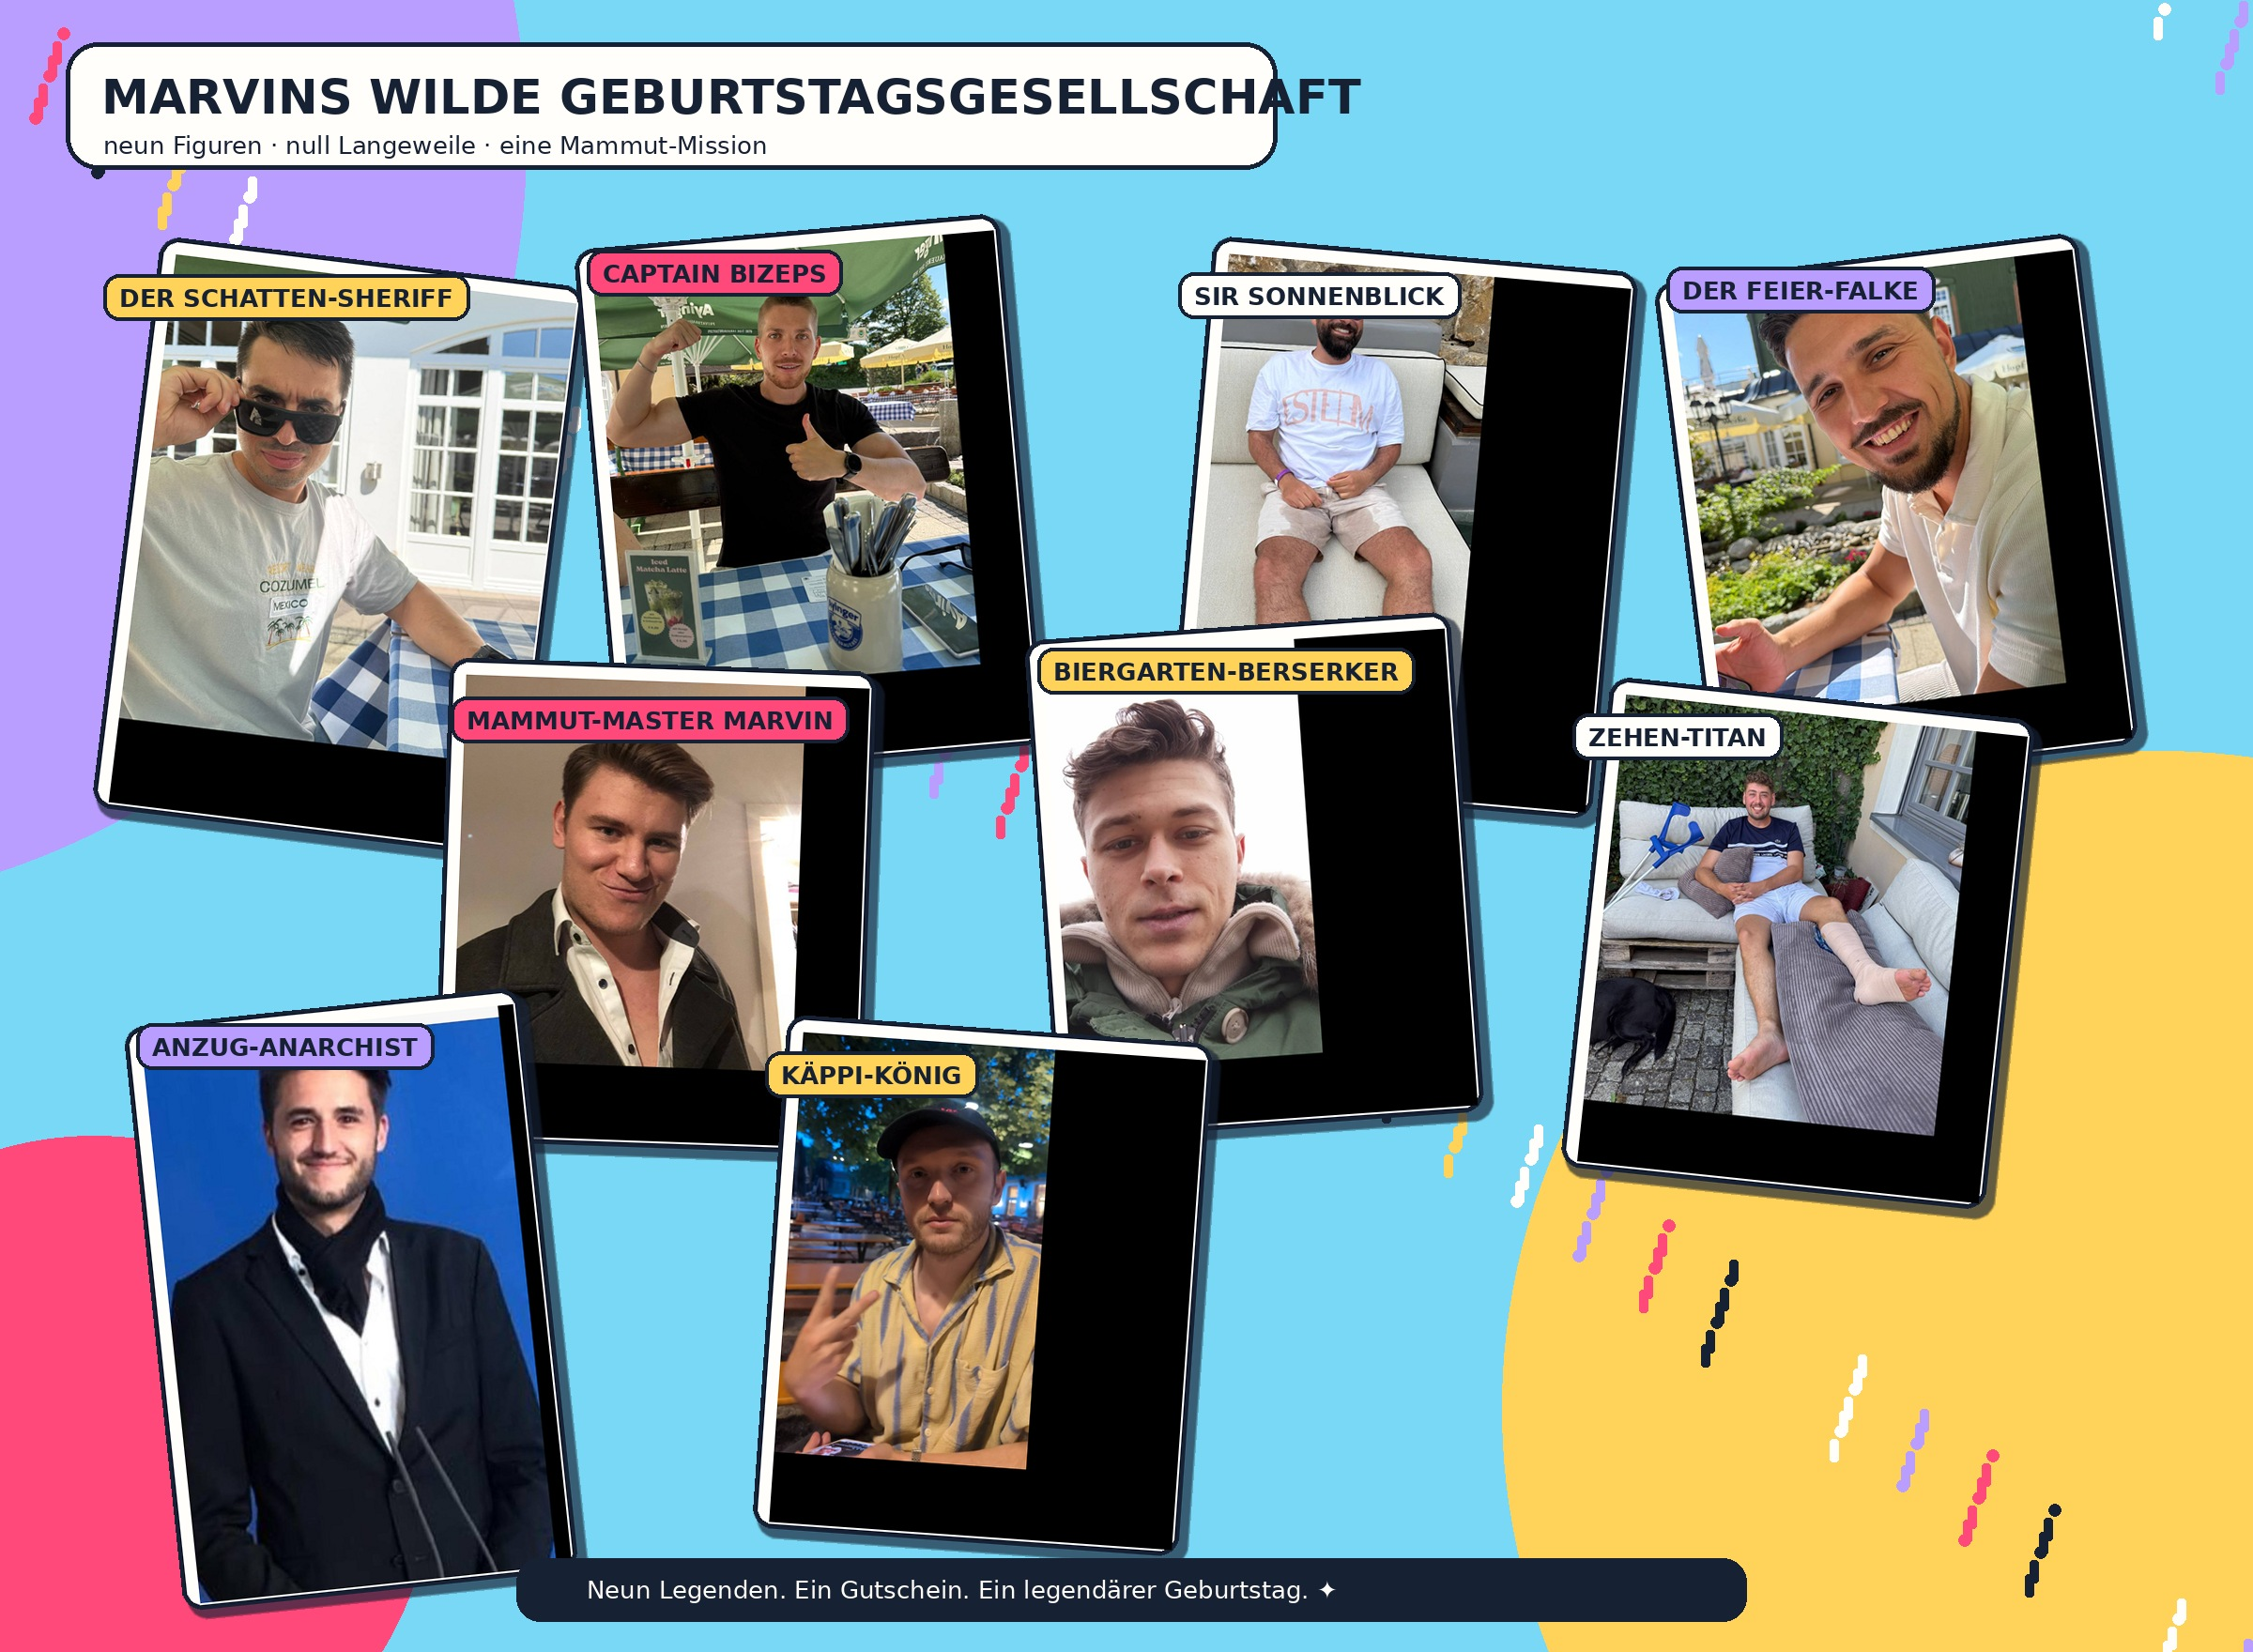
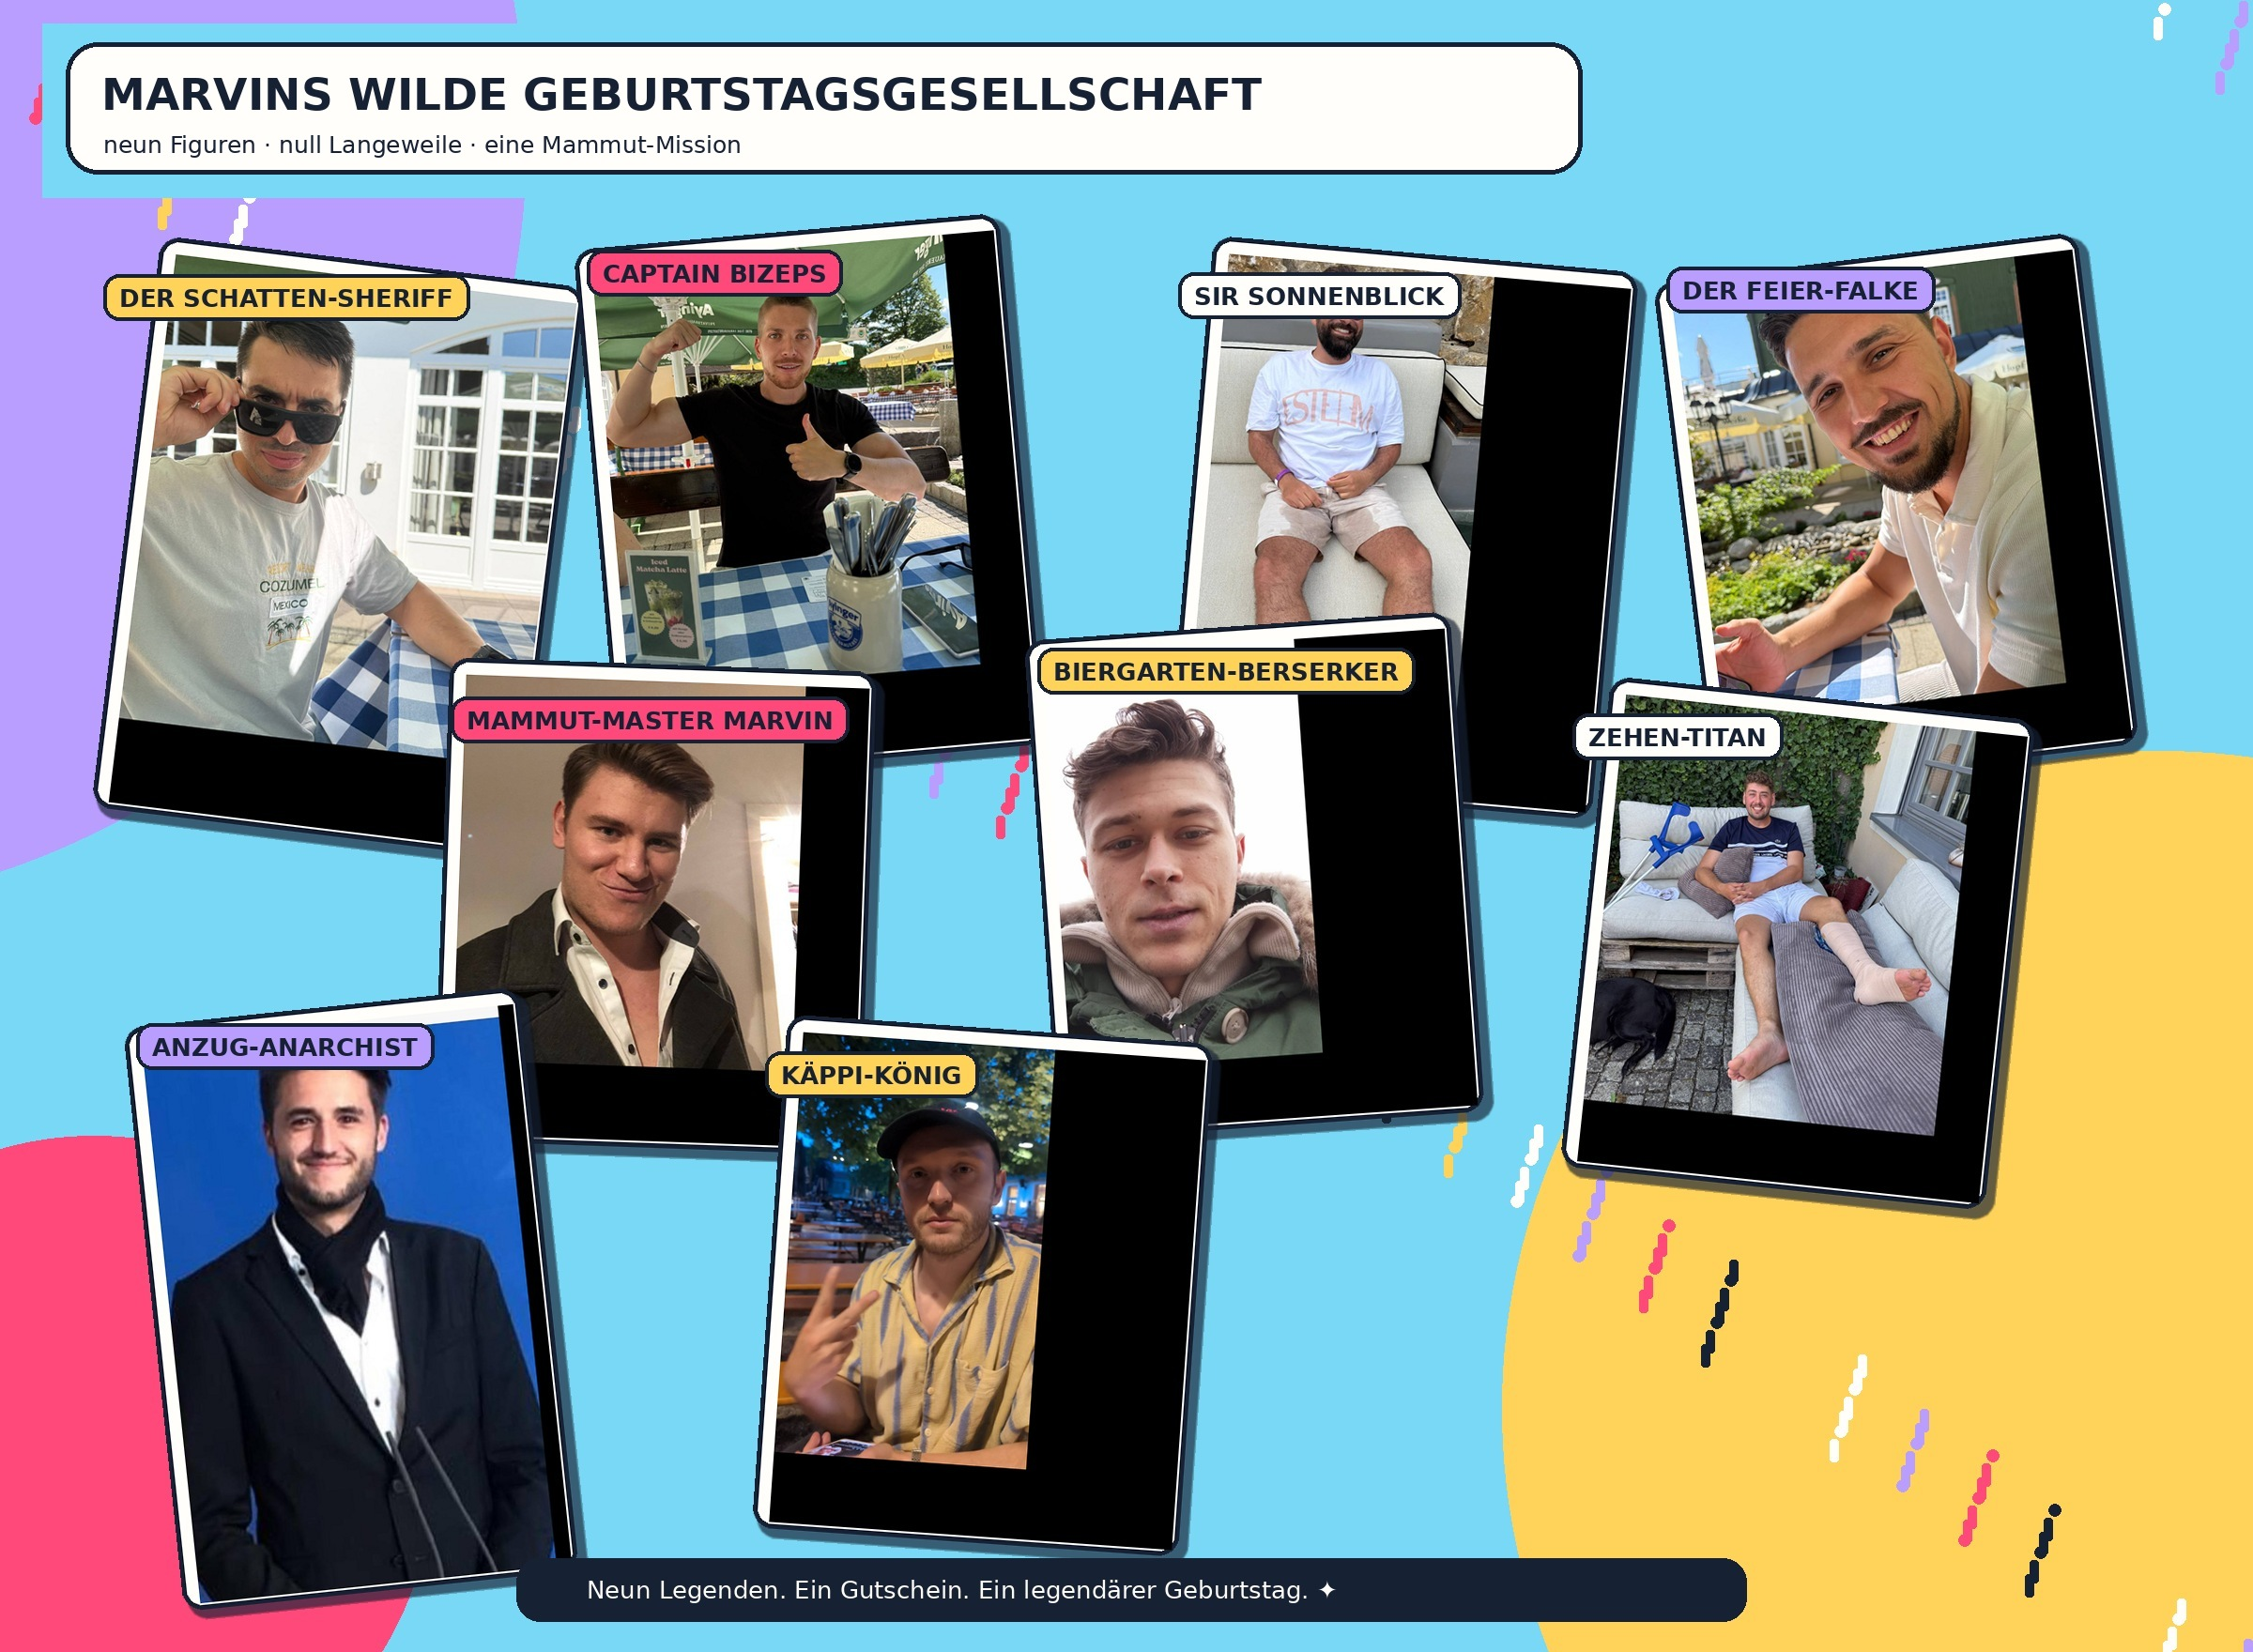
Fix collage heading and restore mammoth badge

Changed region(s): [[0.0, 0.0, 0.7188, 0.125]]

diff --git a/index.html b/index.html
@@ -9,13 +9,13 @@
 #gate{min-height:100svh;display:grid;place-items:center;padding:24px;background:radial-gradient(circle at 15% 20%,#ffe287 0 8%,transparent 28%),radial-gradient(circle at 90% 90%,#f6b6ce 0 10%,transparent 32%),#fff8e9;position:relative;z-index:5}.gate-card{width:min(100%,460px);background:#fffefb;border:2px solid var(--ink);border-radius:28px;padding:clamp(28px,6vw,52px);box-shadow:10px 10px 0 var(--ink);text-align:center;position:relative}.tiny{font:500 11px/1.4 'DM Mono';letter-spacing:.12em;text-transform:uppercase;color:#6a6370}.gate-card h1{font:800 clamp(42px,10vw,68px)/.9 'Playfair Display';margin:16px 0;color:var(--pink);letter-spacing:-.06em}.gate-card p{line-height:1.55;margin:0 0 24px}.credentials{display:grid;gap:12px;text-align:left}.credentials label{font-size:13px;font-weight:700}.credentials input{width:100%;padding:14px 15px;border:2px solid var(--ink);border-radius:12px;background:#fffdf7;outline:none}.credentials input:focus{box-shadow:3px 3px 0 var(--blue)}.unlock{margin-top:22px;width:100%;border:2px solid var(--ink);border-radius:999px;padding:15px;background:var(--yellow);font-weight:800;cursor:pointer;box-shadow:4px 4px 0 var(--ink);transition:.2s}.unlock:hover{transform:translate(2px,2px);box-shadow:2px 2px 0 var(--ink)}.hint{min-height:18px;font-size:12px;color:#c53862;margin:12px 0 0}.lock-note{font-size:10px;color:#777;margin-top:22px}
 #gift{display:none;min-height:100svh;position:relative;z-index:4}.topline{padding:18px clamp(20px,5vw,70px);display:flex;justify-content:space-between;align-items:center;font:500 11px 'DM Mono';letter-spacing:.08em;text-transform:uppercase}.badge{background:var(--ink);color:white;padding:8px 12px;border-radius:99px}.hero{min-height:calc(100svh - 58px);display:grid;place-items:center;padding:30px 20px 70px;position:relative}.hero-inner{width:min(100%,1100px);text-align:center;position:relative}.eyebrow{display:inline-flex;align-items:center;gap:8px;background:var(--paper);border:2px solid var(--ink);border-radius:99px;padding:9px 15px;font:500 11px 'DM Mono';letter-spacing:.1em;text-transform:uppercase;box-shadow:3px 3px 0 var(--ink)}.hero h2{font:800 clamp(62px,15vw,170px)/.76 'Playfair Display';letter-spacing:-.075em;margin:26px 0 18px;color:var(--ink)}.hero h2 em{color:var(--pink);font-weight:700}.sub{font-size:clamp(16px,2vw,23px);max-width:540px;margin:0 auto;line-height:1.5}.balloon{position:absolute;border:2px solid var(--ink);width:94px;height:114px;border-radius:50% 50% 47% 47%;box-shadow:4px 4px 0 var(--ink);animation:float 4.5s ease-in-out infinite}.balloon:after{content:'';position:absolute;bottom:-13px;left:40px;border-left:6px solid transparent;border-right:6px solid transparent;border-top:15px solid var(--ink);filter:drop-shadow(2px 1px 0 currentColor)}.balloon:before{content:'';position:absolute;height:95px;width:1.5px;background:var(--ink);top:112px;left:46px;transform:rotate(8deg);transform-origin:top}.b1{background:var(--yellow);left:4%;top:18%;transform:rotate(-10deg)}.b2{background:var(--blue);right:5%;top:11%;animation-delay:-1s}.b3{background:var(--lilac);left:13%;bottom:-12%;animation-delay:-2.4s}.b4{background:var(--pink);right:14%;bottom:-11%;animation-delay:-.7s}@keyframes float{50%{translate:0 -18px;rotate:3deg}}
 .scroll-cue{margin-top:54px;font:500 11px 'DM Mono';letter-spacing:.1em;text-transform:uppercase;display:inline-flex;gap:10px;align-items:center}.arrow{font-size:22px;animation:bounce 1.5s infinite}@keyframes bounce{50%{translate:0 7px}}
-.section{padding:clamp(70px,12vw,150px) 20px}.voucher-wrap{width:min(100%,880px);margin:auto}.section-head{text-align:center;margin-bottom:42px}.section-head h3{font:800 clamp(38px,7vw,76px)/.95 'Playfair Display';letter-spacing:-.06em;margin:12px 0}.voucher{background:var(--paper);border:2px solid var(--ink);border-radius:26px;box-shadow:12px 12px 0 var(--ink);display:grid;grid-template-columns:1.2fr .8fr;overflow:hidden;position:relative}.voucher-left{padding:clamp(30px,6vw,64px);background:linear-gradient(135deg,#fffefa 0 55%,#f1eaff 55%)}.voucher-right{border-left:2px dashed var(--ink);padding:clamp(30px,5vw,55px);display:flex;flex-direction:column;justify-content:space-between;background:#fff1b9}.amount{font:800 clamp(72px,13vw,145px)/.8 'Playfair Display';letter-spacing:-.08em;color:var(--pink);margin:20px 0}.voucher h4{font-size:clamp(23px,3vw,35px);margin:0 0 10px;letter-spacing:-.04em}.voucher p{line-height:1.55;margin:0}.ticket{font:500 12px 'DM Mono';line-height:1.7}.code-box{margin-top:22px;border:2px dashed var(--ink);border-radius:13px;padding:12px;font:500 18px 'DM Mono';letter-spacing:.13em;background:#fffdf6}.reveal{border:2px solid var(--ink);border-radius:999px;background:var(--pink);color:white;padding:14px 18px;font-weight:800;cursor:pointer;box-shadow:3px 3px 0 var(--ink);margin-top:28px}.reveal:hover{background:#e52f64}.secret{display:none;margin-top:15px;font:500 14px 'DM Mono';background:var(--ink);color:white;border-radius:10px;padding:12px}.guests{background:#78d8f5;padding:clamp(72px,10vw,130px) 20px;position:relative}.guest-together{width:min(100%,1100px);margin:42px auto 0;background:#fffefb;border:2px solid var(--ink);border-radius:24px;overflow:hidden;box-shadow:10px 10px 0 var(--ink)}.guest-together img{display:block;width:100%;height:auto}.guest-together figcaption{padding:16px 22px;text-align:center;font-weight:800}.survival{background:#172134;color:#fff8e9;padding:clamp(70px,11vw,130px) 20px}.survival .tiny{color:#ffd35a}.mission{width:min(100%,1050px);margin:44px auto 0;display:grid;grid-template-columns:1.1fr .9fr;gap:26px;align-items:center}.mission-copy h4{font:800 clamp(39px,6vw,72px)/.92 'Playfair Display';letter-spacing:-.06em;margin:0 0 18px}.mission-copy p{font-size:18px;line-height:1.6;max-width:560px}.mission-art{background:#ffd35a;border:2px solid #fff8e9;border-radius:28px;padding:10px;box-shadow:8px 8px 0 #ff497b;rotate:2deg}.mission-art img{width:100%;display:block}.skills{width:min(100%,1050px);margin:55px auto 0;display:grid;grid-template-columns:repeat(4,1fr);gap:12px}.skill{border:1px solid rgba(255,255,255,.5);border-radius:16px;padding:20px 16px;min-height:132px;background:rgba(255,255,255,.08)}.skill b{display:block;font-size:16px;margin:16px 0 5px}.skill span{font:500 10px 'DM Mono';letter-spacing:.1em;text-transform:uppercase;color:#ffd35a}.profiles{padding:clamp(70px,11vw,130px) 20px;background:#ede4d3}.profile-grid{width:min(100%,1100px);margin:42px auto 0;display:grid;grid-template-columns:repeat(5,1fr);gap:13px}.profile{background:#fffefb;border:2px solid var(--ink);border-radius:17px;overflow:hidden;box-shadow:4px 4px 0 var(--ink)}.profile img{width:100%;aspect-ratio:3/4;object-fit:cover;display:block}.profile:nth-child(3){border-color:#ff497b;box-shadow:5px 5px 0 #ff497b}.profile div{padding:12px}.profile b{font-size:13px;display:block}.profile span{font:500 9px 'DM Mono';color:#6d6672;text-transform:uppercase;letter-spacing:.07em;display:block;margin-top:4px}@media(max-width:720px){.mission{grid-template-columns:1fr}.mission-art{max-width:360px;margin:auto}.skills{grid-template-columns:repeat(2,1fr)}.profile-grid{grid-template-columns:repeat(3,1fr)}.profile b{font-size:11px}.profile span{font-size:8px}.profile div{padding:9px}.profile:nth-child(4),.profile:nth-child(5){grid-column:span 1}}.footer{text-align:center;padding:30px 20px 70px;font:500 12px 'DM Mono';color:#5e5a69}@media(max-width:650px){.guest-together{box-shadow:5px 5px 0 var(--ink)}.guest-together figcaption{font-size:12px;padding:12px}.spark{font-size:26px;display:inline-block;animation:spin 5s linear infinite}@keyframes spin{to{rotate:360deg}}@media(max-width:650px){.b3,.b4{display:none}.voucher{grid-template-columns:1fr}.voucher-right{border-left:0;border-top:2px dashed var(--ink);gap:22px}.hero h2{font-size:clamp(62px,20vw,110px)}.topline{font-size:9px}}
+.section{padding:clamp(70px,12vw,150px) 20px}.voucher-wrap{width:min(100%,880px);margin:auto}.section-head{text-align:center;margin-bottom:42px}.section-head h3{font:800 clamp(38px,7vw,76px)/.95 'Playfair Display';letter-spacing:-.06em;margin:12px 0}.voucher{background:var(--paper);border:2px solid var(--ink);border-radius:26px;box-shadow:12px 12px 0 var(--ink);display:grid;grid-template-columns:1.2fr .8fr;overflow:hidden;position:relative}.voucher-left{padding:clamp(30px,6vw,64px);background:linear-gradient(135deg,#fffefa 0 55%,#f1eaff 55%)}.voucher-right{border-left:2px dashed var(--ink);padding:clamp(30px,5vw,55px);display:flex;flex-direction:column;justify-content:space-between;background:#fff1b9}.amount{font:800 clamp(72px,13vw,145px)/.8 'Playfair Display';letter-spacing:-.08em;color:var(--pink);margin:20px 0}.voucher h4{font-size:clamp(23px,3vw,35px);margin:0 0 10px;letter-spacing:-.04em}.voucher p{line-height:1.55;margin:0}.ticket{font:500 12px 'DM Mono';line-height:1.7}.code-box{margin-top:22px;border:2px dashed var(--ink);border-radius:13px;padding:12px;font:500 18px 'DM Mono';letter-spacing:.13em;background:#fffdf6}.reveal{border:2px solid var(--ink);border-radius:999px;background:var(--pink);color:white;padding:14px 18px;font-weight:800;cursor:pointer;box-shadow:3px 3px 0 var(--ink);margin-top:28px}.reveal:hover{background:#e52f64}.secret{display:none;margin-top:15px;font:500 14px 'DM Mono';background:var(--ink);color:white;border-radius:10px;padding:12px}.guests{background:#78d8f5;padding:clamp(72px,10vw,130px) 20px;position:relative}.mammoth-badge{display:block;width:min(180px,30vw);margin:-22px auto 10px;filter:drop-shadow(4px 5px 0 #172134)}.guest-together{width:min(100%,1100px);margin:42px auto 0;background:#fffefb;border:2px solid var(--ink);border-radius:24px;overflow:hidden;box-shadow:10px 10px 0 var(--ink)}.guest-together img{display:block;width:100%;height:auto}.guest-together figcaption{padding:16px 22px;text-align:center;font-weight:800}.survival{background:#172134;color:#fff8e9;padding:clamp(70px,11vw,130px) 20px}.survival .tiny{color:#ffd35a}.mission{width:min(100%,1050px);margin:44px auto 0;display:grid;grid-template-columns:1.1fr .9fr;gap:26px;align-items:center}.mission-copy h4{font:800 clamp(39px,6vw,72px)/.92 'Playfair Display';letter-spacing:-.06em;margin:0 0 18px}.mission-copy p{font-size:18px;line-height:1.6;max-width:560px}.mission-art{background:#ffd35a;border:2px solid #fff8e9;border-radius:28px;padding:10px;box-shadow:8px 8px 0 #ff497b;rotate:2deg}.mission-art img{width:100%;display:block}.skills{width:min(100%,1050px);margin:55px auto 0;display:grid;grid-template-columns:repeat(4,1fr);gap:12px}.skill{border:1px solid rgba(255,255,255,.5);border-radius:16px;padding:20px 16px;min-height:132px;background:rgba(255,255,255,.08)}.skill b{display:block;font-size:16px;margin:16px 0 5px}.skill span{font:500 10px 'DM Mono';letter-spacing:.1em;text-transform:uppercase;color:#ffd35a}.profiles{padding:clamp(70px,11vw,130px) 20px;background:#ede4d3}.profile-grid{width:min(100%,1100px);margin:42px auto 0;display:grid;grid-template-columns:repeat(5,1fr);gap:13px}.profile{background:#fffefb;border:2px solid var(--ink);border-radius:17px;overflow:hidden;box-shadow:4px 4px 0 var(--ink)}.profile img{width:100%;aspect-ratio:3/4;object-fit:cover;display:block}.profile:nth-child(3){border-color:#ff497b;box-shadow:5px 5px 0 #ff497b}.profile div{padding:12px}.profile b{font-size:13px;display:block}.profile span{font:500 9px 'DM Mono';color:#6d6672;text-transform:uppercase;letter-spacing:.07em;display:block;margin-top:4px}@media(max-width:720px){.mission{grid-template-columns:1fr}.mission-art{max-width:360px;margin:auto}.skills{grid-template-columns:repeat(2,1fr)}.profile-grid{grid-template-columns:repeat(3,1fr)}.profile b{font-size:11px}.profile span{font-size:8px}.profile div{padding:9px}.profile:nth-child(4),.profile:nth-child(5){grid-column:span 1}}.footer{text-align:center;padding:30px 20px 70px;font:500 12px 'DM Mono';color:#5e5a69}@media(max-width:650px){.guest-together{box-shadow:5px 5px 0 var(--ink)}.guest-together figcaption{font-size:12px;padding:12px}.spark{font-size:26px;display:inline-block;animation:spin 5s linear infinite}@keyframes spin{to{rotate:360deg}}@media(max-width:650px){.b3,.b4{display:none}.voucher{grid-template-columns:1fr}.voucher-right{border-left:0;border-top:2px dashed var(--ink);gap:22px}.hero h2{font-size:clamp(62px,20vw,110px)}.topline{font-size:9px}}
 @media(prefers-reduced-motion:reduce){*,*:before,*:after{animation-duration:.01ms!important;animation-iteration-count:1!important;scroll-behavior:auto!important}}
 </style>
 </head><body>
 <div class="confetti" id="confetti"></div>
 <main id="gate"><section class="gate-card"><div class="tiny">Nur für Marvin · 32</div><h1>pssst…</h1><p>Hier wartet etwas Buntes, Persönliches und ziemlich Gutes auf dich.</p><button class="unlock" id="unlock">Überraschung öffnen ✦</button><div class="lock-note">Für Marvin · mit Liebe zusammengestellt</div></section></main>
-<main id="gift"><header class="topline"><span>Marvins Geburtstags-Überraschung</span><span class="badge">Level 32 unlocked</span></header><section class="hero"><div class="balloon b1"></div><div class="balloon b2"></div><div class="balloon b3"></div><div class="balloon b4"></div><div class="hero-inner"><div class="eyebrow"><span class="spark">✦</span> heute wird gefeiert</div><h2>Happy<br><em>32.</em> Marvin!</h2><p class="sub">Für ein neues Jahr voller guter Geschichten, großer Ideen und genau der richtigen Portion Abenteuer.</p><div class="scroll-cue">Deine Überraschung <span class="arrow">↓</span></div></div></section><section class="section"><div class="voucher-wrap"><div class="section-head"><div class="tiny">Ein Geschenk für dich</div><h3>Such dir etwas aus,<br>das dich weiterbringt.</h3></div><article class="voucher"><div class="voucher-left"><div class="tiny">Dein Wertgutschein</div><div class="amount">400 €</div><h4>Freie Kurswahl</h4><p>Ganz in deinem Tempo. Ganz nach deinem Geschmack. Dieser Gutschein gehört dir.</p></div><div class="voucher-right"><div><div class="ticket">GUTSCHEIN · 26-057<br>FÜR · MARVIN SIEWERT<br>GÜLTIG BIS · 31.12.2029</div><button class="reveal" id="reveal">Code anzeigen</button><div class="secret" id="secret">Gutscheincode: <strong>pi0z3k</strong></div></div><p class="ticket">Einlösen, Kurs auswählen, loslegen.</p></div></article></div></section><section class="guests"><div class="section-head"><div class="tiny">Die Mannschaft ist da</div><h3>Alle zusammen<br>für Marvin.</h3></div><figure class="guest-together"><img src="assets/birthday-guests-together.jpg" alt="Neun Geburtstagsgäste zusammen in einer bunten Geburtstagscollage"><figcaption>Marvin und seine neunköpfige Crew — bereit für die Feier.</figcaption></figure></section></section><footer class="footer">Mit viel Liebe für ein richtig gutes neues Lebensjahr. <span class="spark">✦</span></footer></main>
+<main id="gift"><header class="topline"><span>Marvins Geburtstags-Überraschung</span><span class="badge">Level 32 unlocked</span></header><section class="hero"><div class="balloon b1"></div><div class="balloon b2"></div><div class="balloon b3"></div><div class="balloon b4"></div><div class="hero-inner"><div class="eyebrow"><span class="spark">✦</span> heute wird gefeiert</div><h2>Happy<br><em>32.</em> Marvin!</h2><p class="sub">Für ein neues Jahr voller guter Geschichten, großer Ideen und genau der richtigen Portion Abenteuer.</p><div class="scroll-cue">Deine Überraschung <span class="arrow">↓</span></div></div></section><section class="section"><div class="voucher-wrap"><div class="section-head"><div class="tiny">Ein Geschenk für dich</div><h3>Such dir etwas aus,<br>das dich weiterbringt.</h3></div><article class="voucher"><div class="voucher-left"><div class="tiny">Dein Wertgutschein</div><div class="amount">400 €</div><h4>Freie Kurswahl</h4><p>Ganz in deinem Tempo. Ganz nach deinem Geschmack. Dieser Gutschein gehört dir.</p></div><div class="voucher-right"><div><div class="ticket">GUTSCHEIN · 26-057<br>FÜR · MARVIN SIEWERT<br>GÜLTIG BIS · 31.12.2029</div><button class="reveal" id="reveal">Code anzeigen</button><div class="secret" id="secret">Gutscheincode: <strong>pi0z3k</strong></div></div><p class="ticket">Einlösen, Kurs auswählen, loslegen.</p></div></article></div></section><section class="guests"><div class="section-head"><div class="tiny">Die Mannschaft ist da</div><h3>Alle zusammen<br>für Marvin.</h3></div><img class="mammoth-badge" src="assets/mammoth-party.svg" alt="Partymammut für Marvins Survival-Gutschein"><figure class="guest-together"><img src="assets/birthday-guests-together.jpg" alt="Neun Geburtstagsgäste zusammen in einer bunten Geburtstagscollage"><figcaption>Marvin und seine neunköpfige Crew — bereit für die Feier.</figcaption></figure></section></section><footer class="footer">Mit viel Liebe für ein richtig gutes neues Lebensjahr. <span class="spark">✦</span></footer></main>
 <script>
 const c=document.getElementById('confetti');for(let i=0;i<48;i++){const x=document.createElement('i');x.style.left=Math.random()*100+'%';x.style.animationDuration=(4+Math.random()*6)+'s';x.style.animationDelay=(-Math.random()*8)+'s';x.style.rotate=Math.random()*360+'deg';c.appendChild(x)}
 